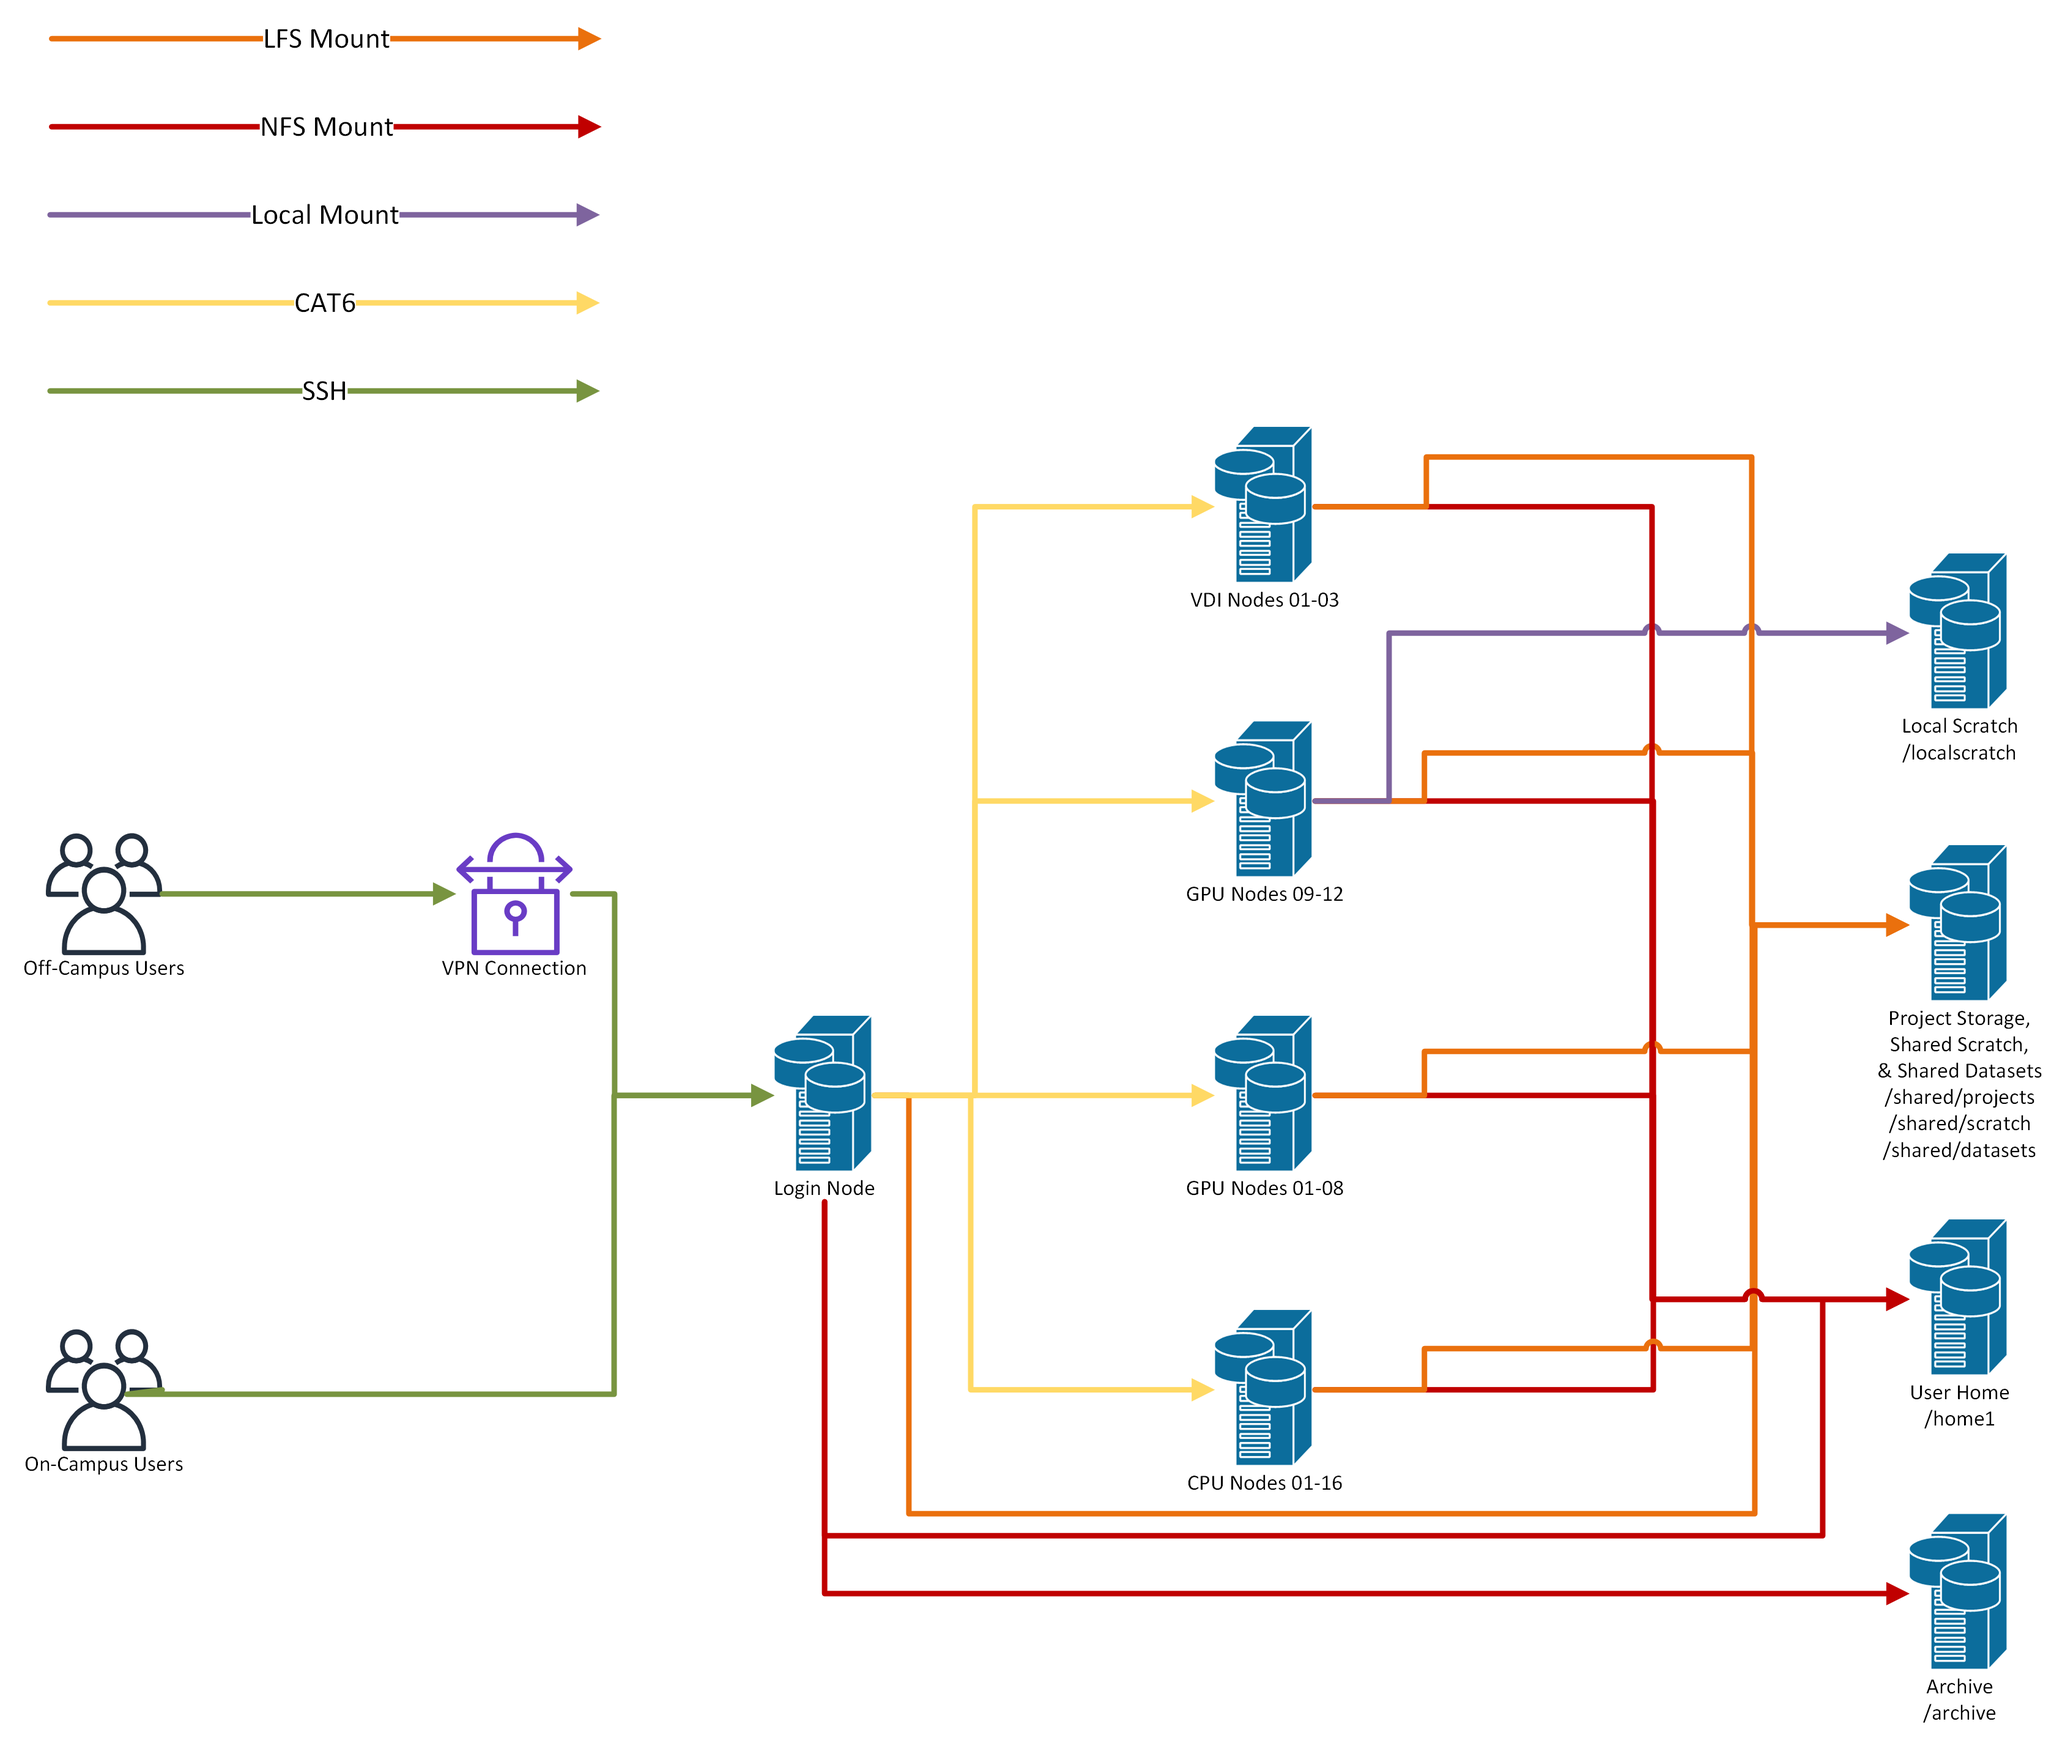
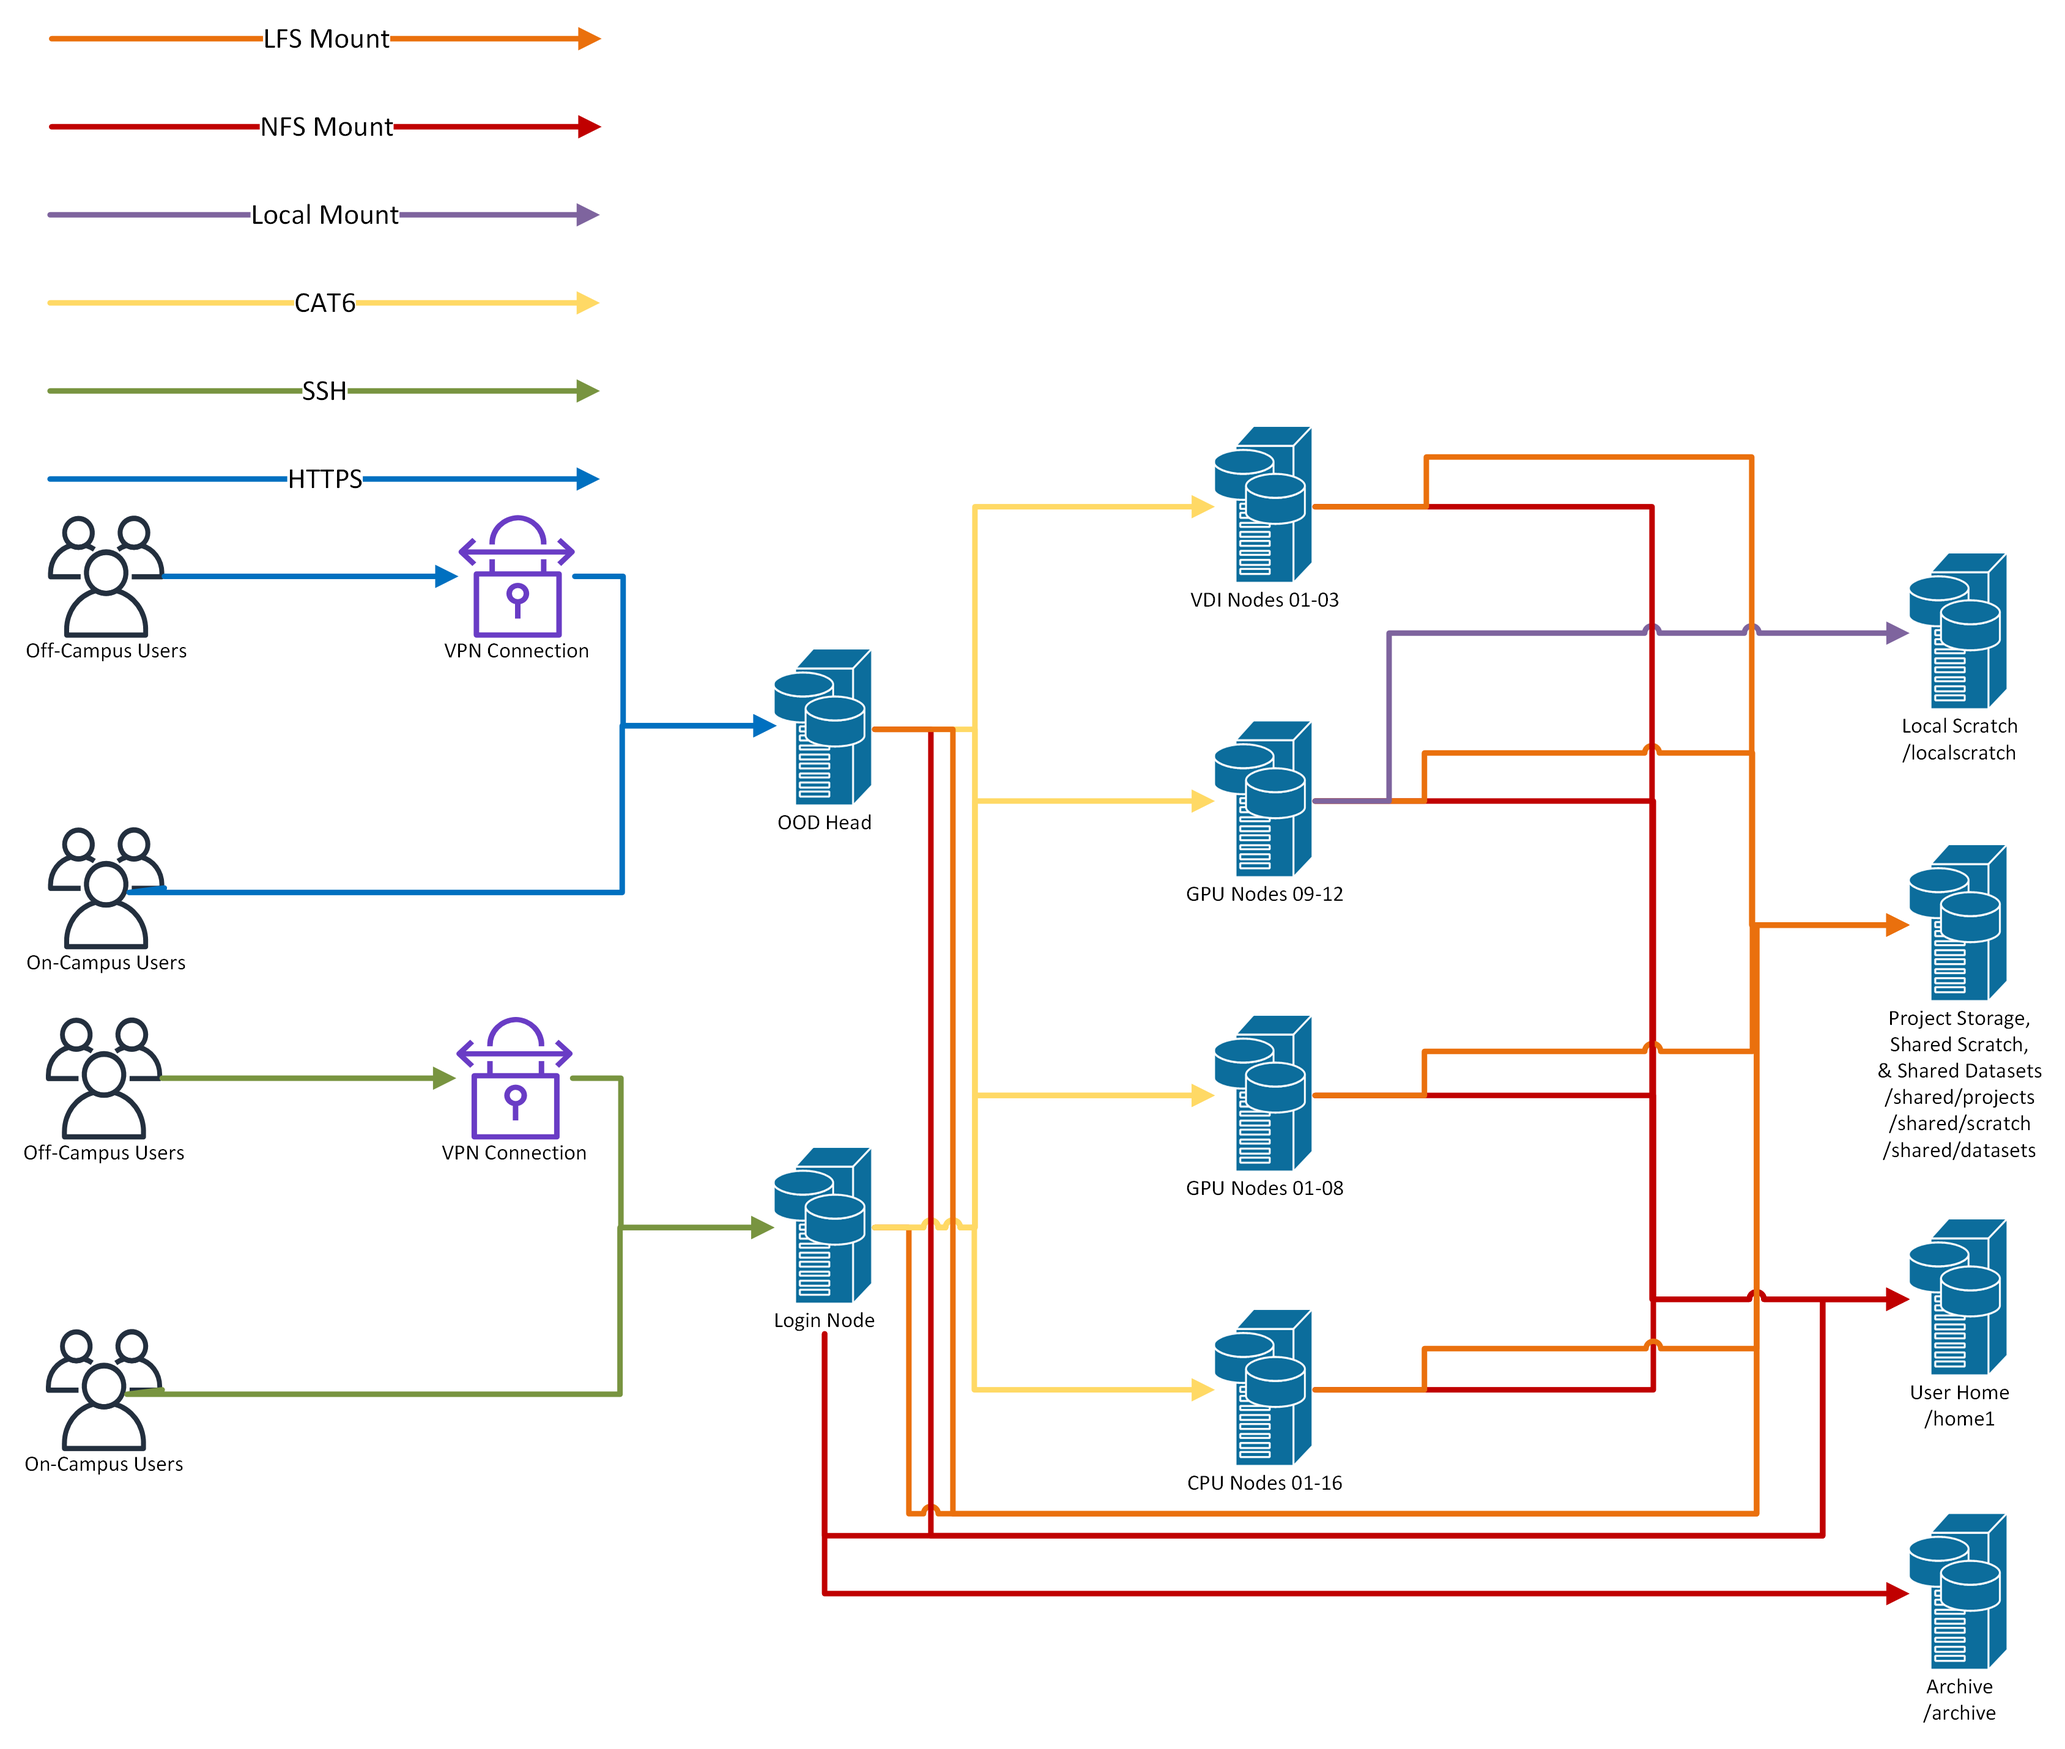
new diagram, ood head note

Changed region(s): [[0.0311, 0.249, 0.4976, 0.8713], [0.0, 0.4668, 0.311, 0.5601], [0.8398, 0.6224, 0.8709, 0.7469]]

diff --git a/docs/02-architecture-storage.md b/docs/02-architecture-storage.md
@@ -7,8 +7,9 @@ AI.Panther is a set of nodes managed by the Slurm scheduler, sharing several kin
 ## 2.1 How access works
 
 - Off campus: VPN first, then <https://ood.fit.edu>. On campus: open it directly.
-- The Open OnDemand shell runs on the **Login Node**. Slurm sends jobs to the compute nodes.
-- SSH to `ai-panther.fit.edu` reaches the same login node, but is not needed here.
+- Open OnDemand runs on the **OOD Head**. Its shell (**Clusters > AI.Panther Shell Access**) opens
+  on the **Login Node**, the same place SSH to `ai-panther.fit.edu` reaches.
+- Slurm sends jobs from the login node to the compute nodes.
 
 > **Important:** The login node is for light tasks: editing files, submitting jobs. **Running
 > heavy processes on the login node is prohibited.**
@@ -72,8 +73,9 @@ Shared storage for a research group. Requires a request and approval; time-limit
 
 ## 2.8 Archive: `/archive`
 
-Long-term storage for finished data you need to keep. Mounted **only on the login node**, so jobs
-cannot read it.
+Long-term storage for finished data you need to keep. Mounted **only on the login node**: jobs
+cannot read it, and the Open OnDemand **Files** browser (on the OOD Head) cannot see it. Use the
+shell.
 
 Check whether you have a directory:
 
